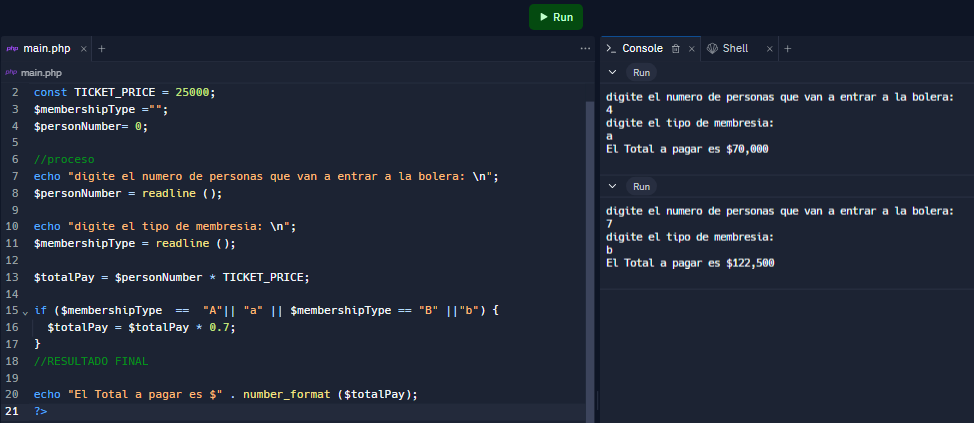
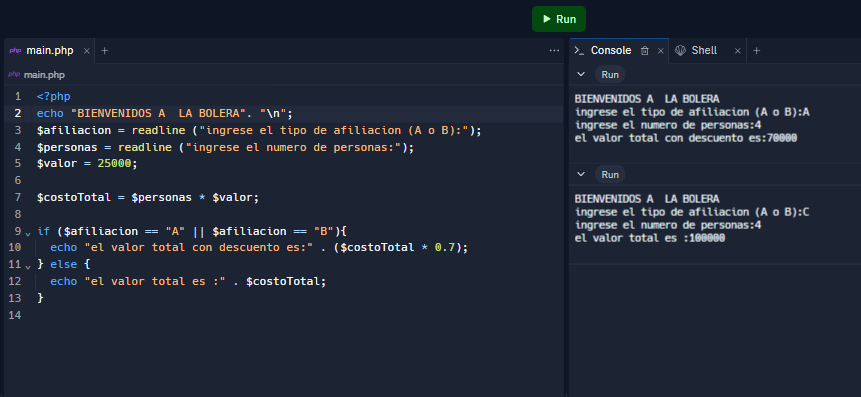
punto 5

diff --git a/punto-5/index.php b/punto-5/index.php
@@ -1,21 +1,14 @@
 <?php
-const TICKET_PRICE = 25000;
-$membershipType ="";
-$personNumber= 0;
+echo "BIENVENIDOS A  LA BOLERA". "\n";
+$afiliacion = readline ("ingrese el tipo de afiliacion (A o B):" . "\n");
+$personas = readline ("ingrese el numero de personas:");
+$valor = 25000;
 
-//proceso
-echo "digite el numero de personas que van a entrar a la bolera: \n";
-$personNumber = readline ();
+$costoTotal = $personas * $valor;
 
-echo "digite el tipo de membresia: \n";
-$membershipType = readline ();
-
-$totalPay = $personNumber * TICKET_PRICE;
-
-if ($membershipType  ==  "A"|| "a" || $membershipType == "B" ||"b") {
-  $totalPay = $totalPay * 0.7;
+if ($afiliacion == "A" || $afiliacion == "B"){
+  echo "el valor total con descuento es:" . ($costoTotal * 0.7);
+} else {
+  echo "el valor total es :" . $costoTotal;
 }
-//RESULTADO FINAL
-
-echo "El Total a pagar es $" . number_format ($totalPay);
 ?>
